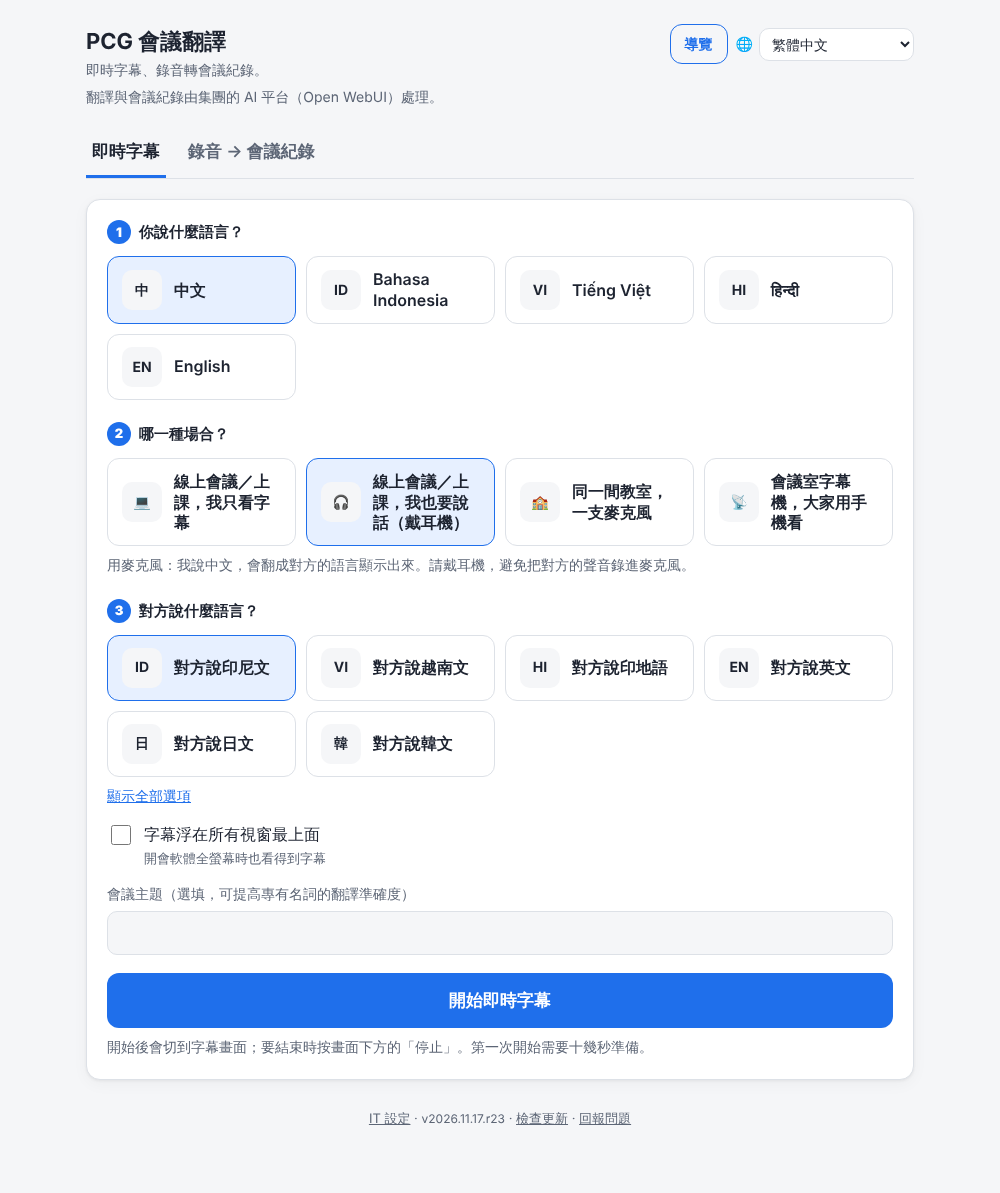
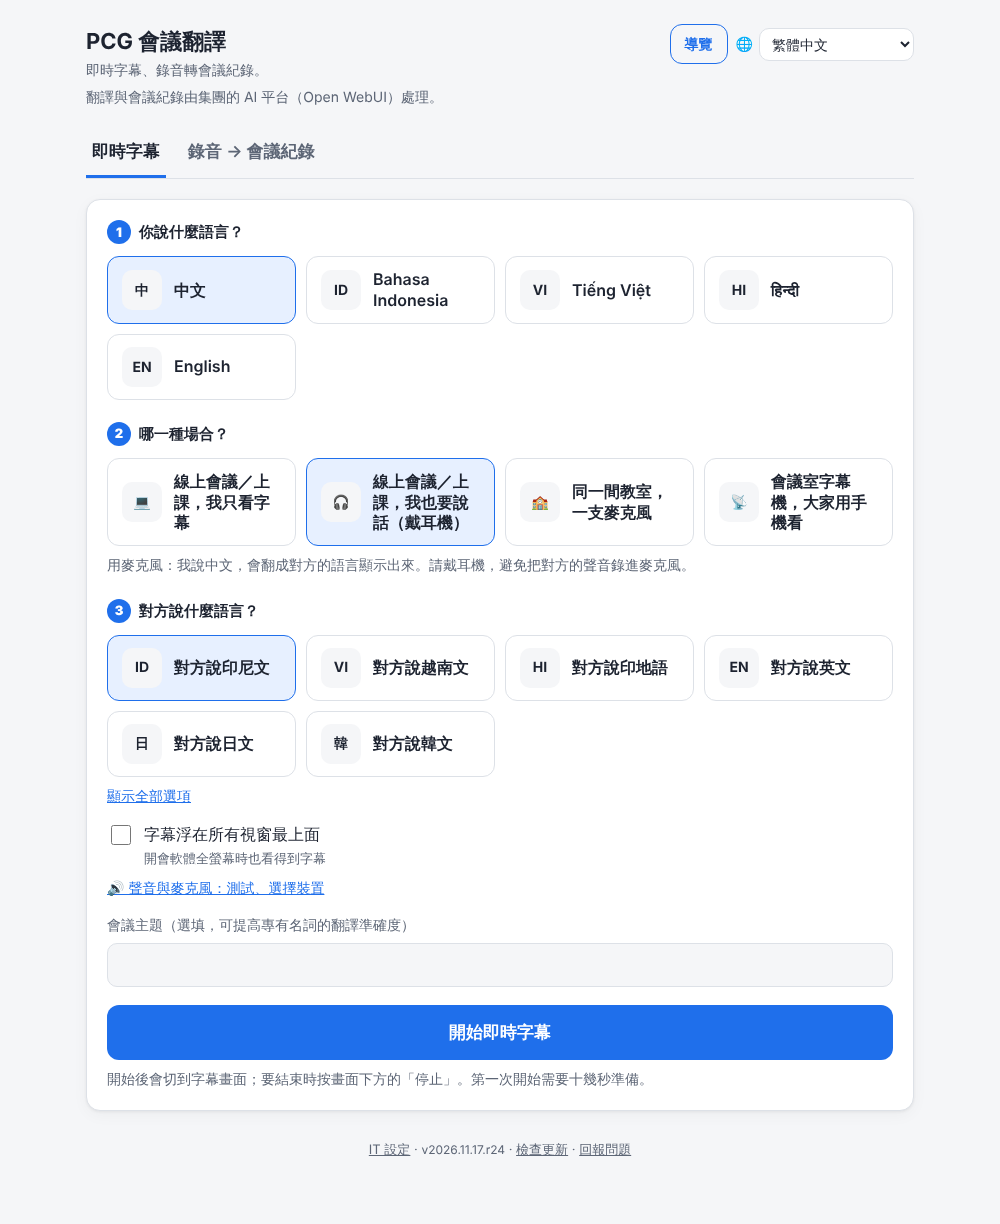
PCG r24：新版本說明、README 與截圖
照 group/RELEASE-CHECKLIST.md：whats-new.json 改成 r24（聲音與麥克風、語音辨識 API）、README 版本紀錄、
截圖換成 r24 並新增「聲音與麥克風」的截圖。IT 必讀、使用情境已在功能提交時更新（4 種語言）。
廣告影片的 9 張介面圖逐像素比對沒有變動，不用重做；安裝說明這次不用改。

Claude-Session: https://claude.ai/code/session_013JWUDCjzPbtqW6539dEAnK

diff --git a/README.md b/README.md
@@ -50,6 +50,10 @@
 |---|---|
 | ![印尼文介面](group/docs/images/simple-live-id.png) | ![回報問題](group/docs/images/simple-report.png) |
 
+| 聲音與麥克風（r24）：開始前先測試，音量條有動就是有收到聲音；可以換麥克風 |
+|---|
+| ![聲音與麥克風](group/docs/images/simple-audio.png) |
+
 ### 給 IT
 
 | 功能 | 說明 |
@@ -79,6 +83,7 @@
 
 | 版本 | 日期 | 主要更新 |
 |---|---|---|
+| **r24** | 2026-11-17 | 新功能「聲音與麥克風」：同仁頁面可以先測試電腦播放的聲音與麥克風（音量條、提示音、沒收到時說明原因），可以指定麥克風，進階可指定要收哪個喇叭或耳機。新功能「語音辨識 API」：IT 設定頁可把語音辨識交給 OpenAI 相容的 API（OpenAI，或公司內部的辨識服務），含測試連線；連不上時自動改回這台電腦辨識，聲音送出公司時頁面有橘色提醒 |
 | **r23** | 2026-11-17 | 新功能「詞庫」：IT 設定頁填公司名、廠區、系統名稱、人名（一行一個詞，可加指定譯法與常被聽錯的寫法），辨識時當提示詞、聽錯的寫法自動換回、翻譯照指定譯法；公司共用資料夾放 `glossary.txt` 所有電腦共用。實測（small 模型）同一句話 5 個專有名詞從對 3 個變成全對，一般句子不受影響 |
 | **r22** | 2026-11-16 | 跟上原作者 jt-live-whisper 2.34.1：SECURITY.md 列出原作者已發布的安全公告與修正版本；原作者的 WebUI 改成新安裝預設只限本機（集團版本來就是，照舊由 IT 設定頁決定能不能讓手機連進來）。說明文件補上 r20、r21 的功能，README 截圖換成這一版；新增發布檢查清單（[group/RELEASE-CHECKLIST.md](group/RELEASE-CHECKLIST.md)） |
 | **r21** | 2026-11-13 | 即時字幕依講話停頓切句（Silero VAD）、每段只辨識一次，翻譯等一句講完才送：實測辨識 CPU 少 37%，字幕是整句（參考 tinglongWu，MIT）；Whisper 卡在重複迴圈時換溫度重新辨識、重複只留一份；IT 設定頁「本機即時字幕模型」新增「自動」（新預設：雙核心用 base 模型包、有 GPU 加速包用 turbo／medium）；修正使用者資料夾是短檔名的電腦第一次安裝失敗（An object at the specified path … does not exist）|
